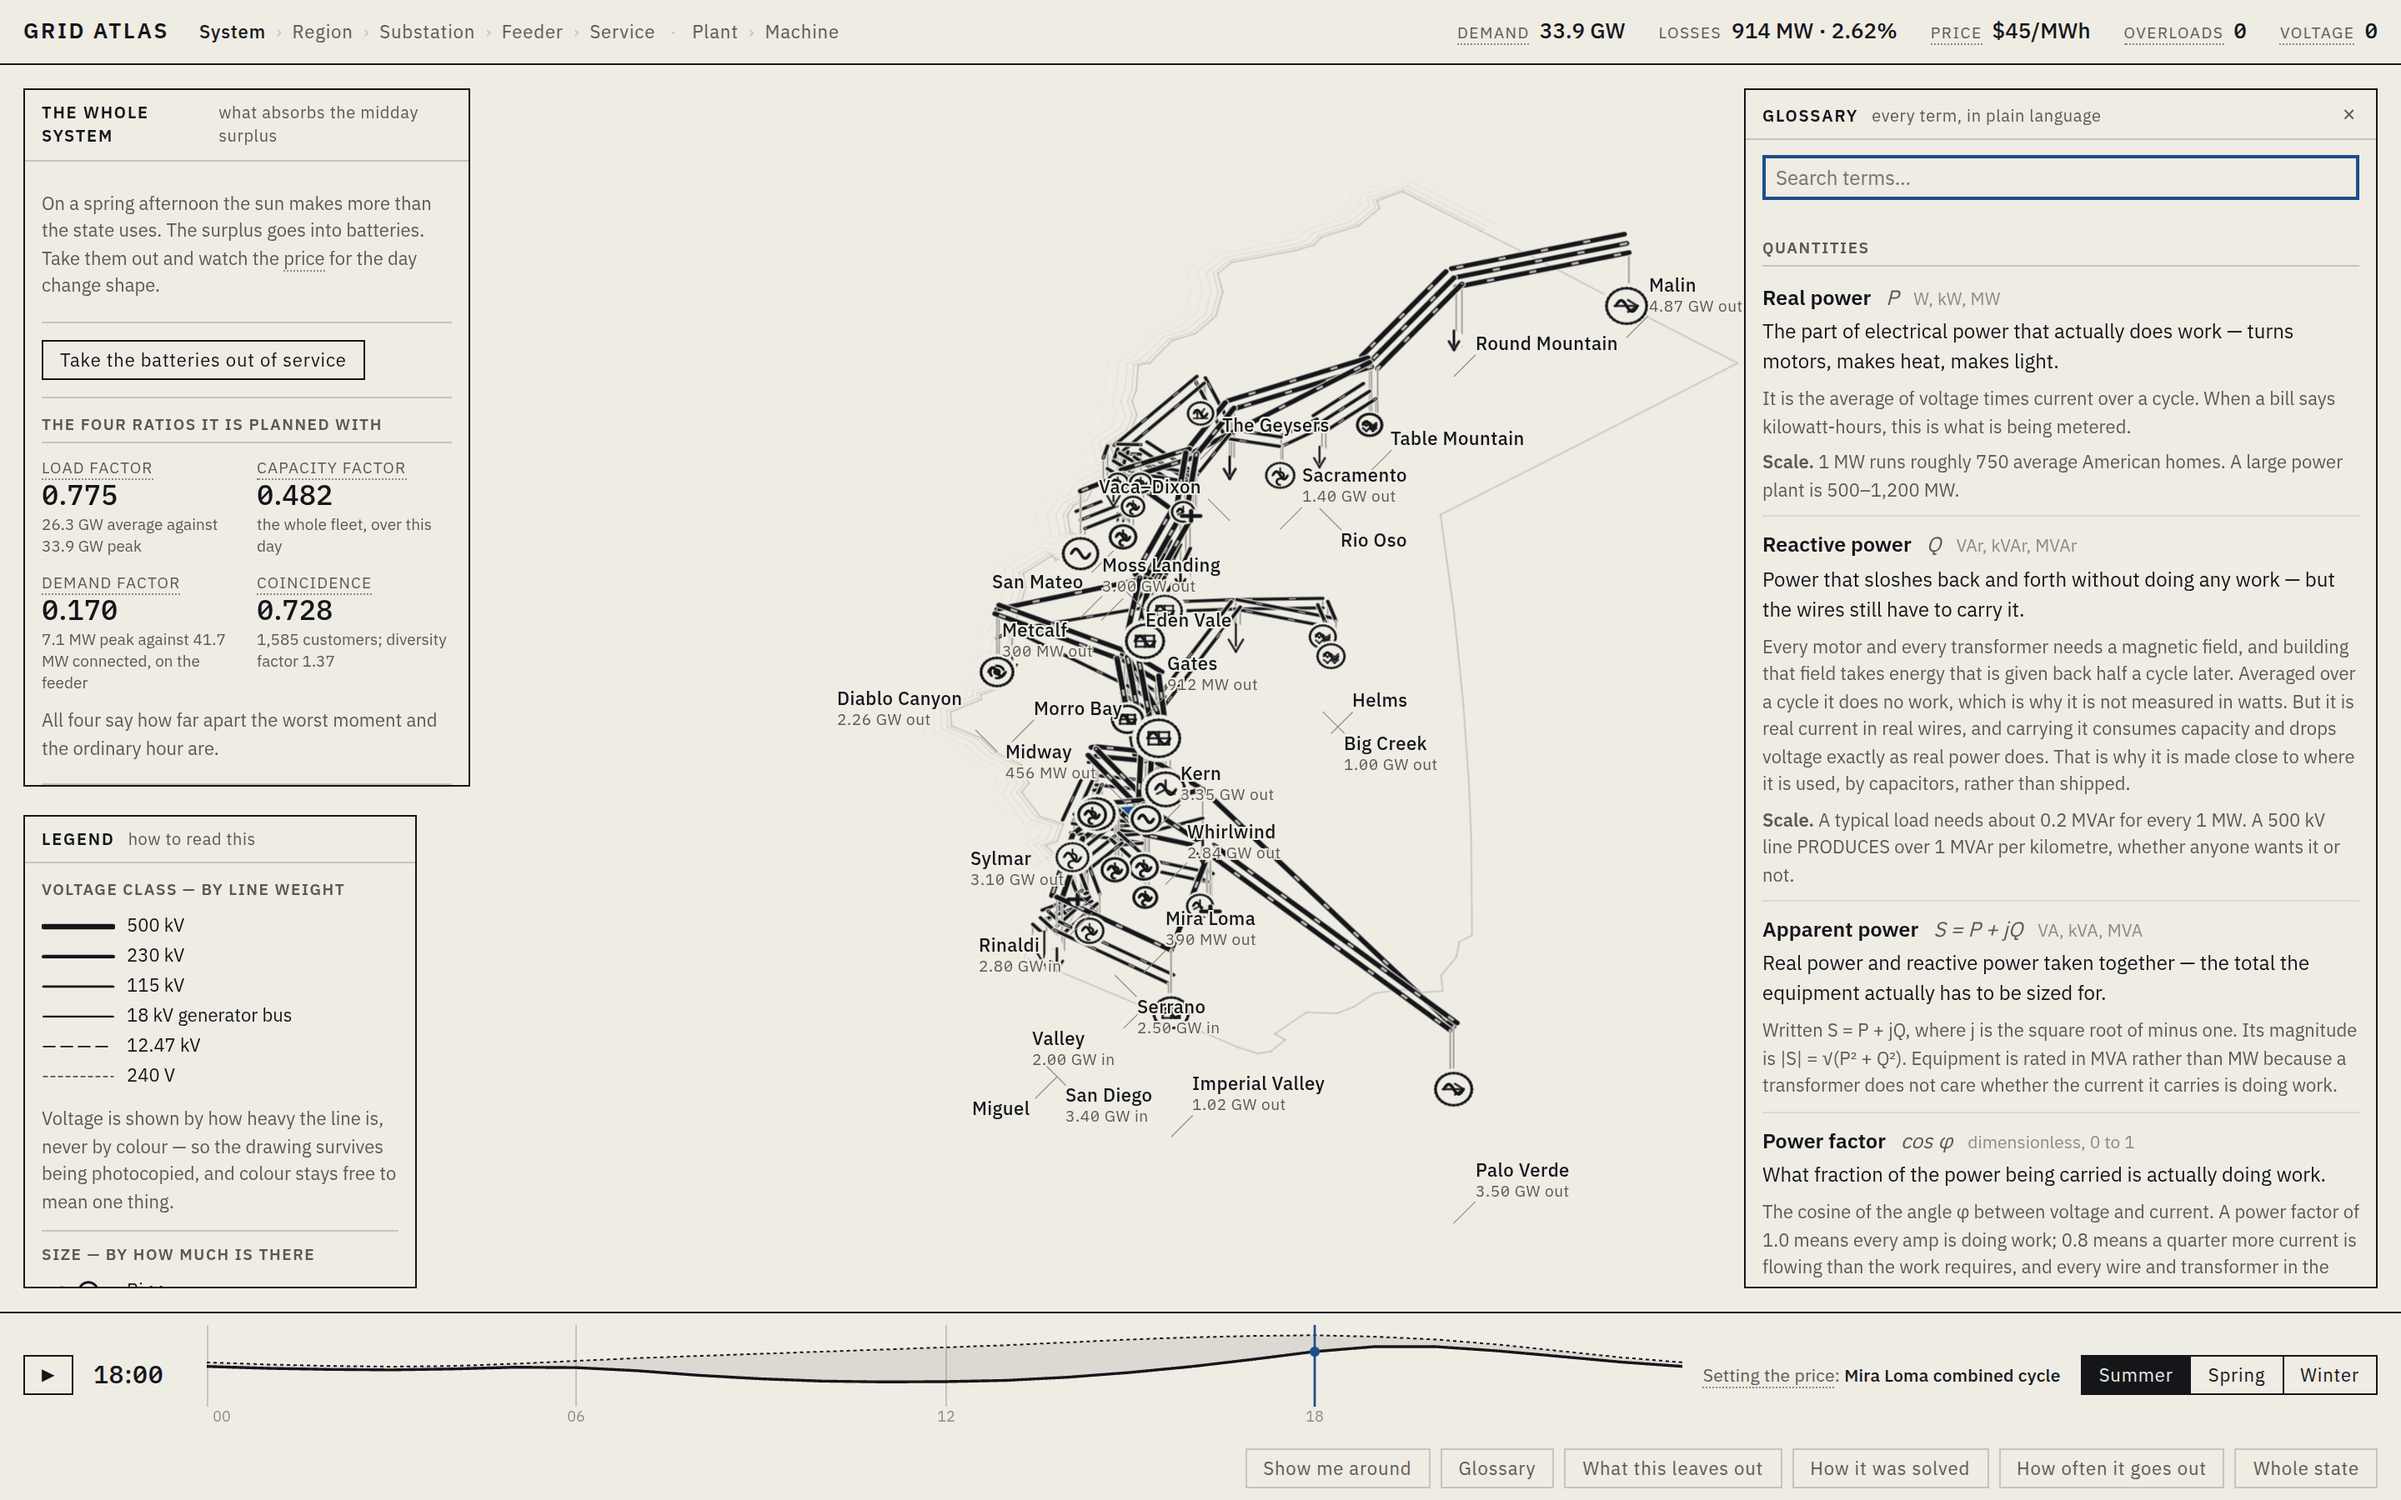
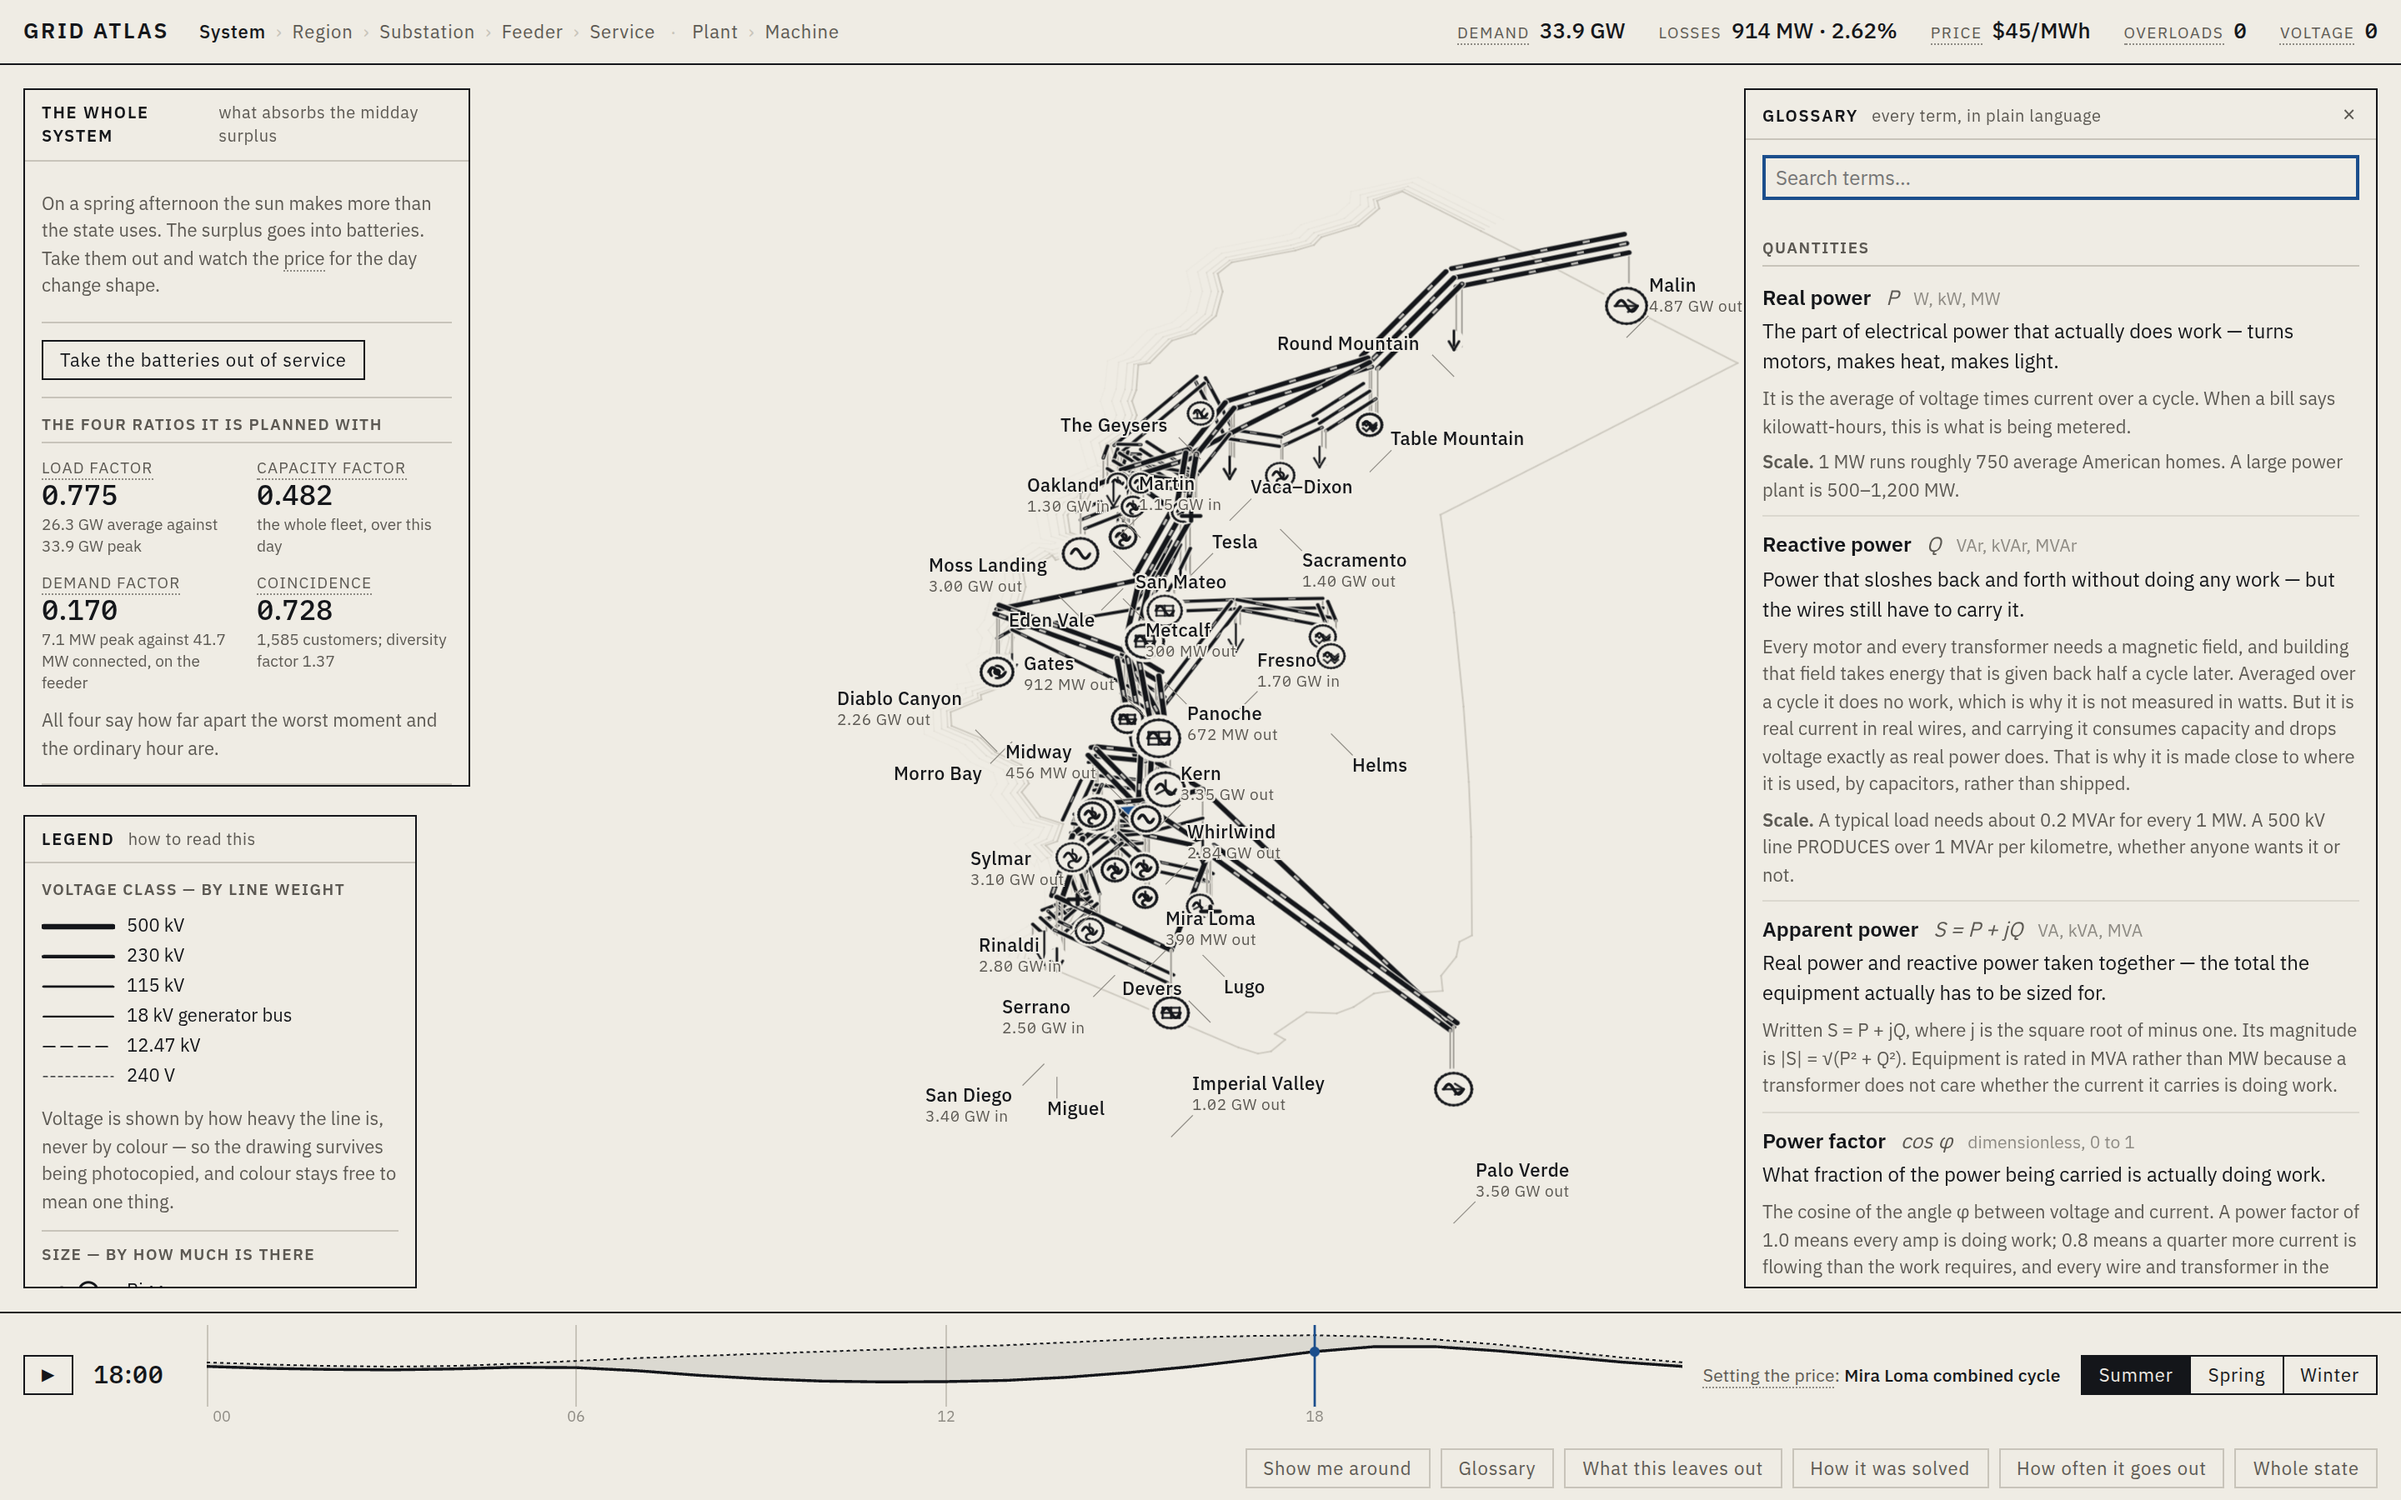
Labels know where the drawing is
What made the map look like a mess was never the number of labels. It
was that a caption would land in the middle of a five-circuit corridor
while a hand's width of empty paper sat beside it: the layout knew
where the other LABELS were and nothing whatever about the drawing it
was writing on.

The frame is now rasterised, once per rebuild, into cells a dozen
pixels across, and each label takes the free position covering the
least ink — with the conventional order as the tie-break, so nothing
moves when there is nothing to avoid. Ghost line work counts for less
than a conductor: at feeder scale the ground is everywhere, and
treating a street as an obstacle would leave no clear paper to prefer.

It costs between a fifth of a millisecond and one and a quarter, once
per camera change, measured at every level.

A label can also state which side of its subject it belongs on, which
is what turns the service view from scattered annotation into a
labelled diagram: the things named above the chain, the wires between
them below. It is a preference and not a restriction — a caption with
nowhere to go on its own side is still placed, because losing the
current and the volts dropped along a wire to keep a tidy rhythm would
be a bad trade.

Claude-Session: https://claude.ai/code/session_013L3ycJKAhRgYUj1wvadxW8

diff --git a/src/render/labels.ts b/src/render/labels.ts
@@ -59,6 +59,106 @@ export interface LabelSpec {
   opacity?: number;
 }
 
+/**
+ * A coarse map of where there is ink on the page.
+ *
+ * WHAT MADE THE MAP LOOK LIKE A MESS WAS NOT THE NUMBER OF LABELS. It was that
+ * a caption would land in the middle of a five-circuit corridor while a hand's
+ * width of empty paper sat beside it — the layout knew where the other LABELS
+ * were and nothing whatever about the drawing it was writing on.
+ *
+ * So the drawing is rasterised, once per rebuild, into cells a dozen pixels
+ * across, and a label picks the free position that covers the least ink. It is
+ * deliberately coarse: this is choosing between four or six candidates, not
+ * doing typography, and a fine grid would cost more than the decision is worth.
+ */
+export interface InkField {
+  cells: Uint16Array;
+  cols: number;
+  rows: number;
+  cell: number;
+}
+
+const INK_CELL_PX = 12;
+
+/**
+ * Rasterise the drawing's segments into that map.
+ *
+ * Endpoints are projected and the line between them walked in cell-sized
+ * steps. Long segments are capped: a five-hundred-kilometre circuit crossing
+ * the page contributes its share and does not get to spend a thousand steps
+ * doing it.
+ */
+/**
+ * How strongly a stroke counts as something worth not writing over.
+ *
+ * A conductor is worth avoiding; the ghost line work of a street or a
+ * coastline is scenery and a caption may sit on it, because at the feeder
+ * scale the ground is EVERYWHERE and treating it as an obstacle would leave
+ * the layout no clear paper at all to prefer.
+ */
+function weightOf(color: string): number {
+  if (color === INK.inkGhost) return 1;
+  if (color === INK.inkFaint || color === INK.inkMuted) return 2;
+  return 3;
+}
+
+export function inkField(
+  camera: IsoCamera,
+  segments: readonly { a: [number, number, number]; b: [number, number, number];
+    color?: string; opacity?: number }[],
+  widthPx: number,
+  heightPx: number
+): InkField {
+  const cell = INK_CELL_PX;
+  const cols = Math.max(1, Math.ceil(widthPx / cell));
+  const rows = Math.max(1, Math.ceil(heightPx / cell));
+  const cells = new Uint16Array(cols * rows);
+  const pa = new Vector2();
+  const pb = new Vector2();
+  const w = new Vector3();
+
+  const put = (x: number, y: number, weight: number): void => {
+    const cx = (x / cell) | 0;
+    const cy = (y / cell) | 0;
+    if (cx < 0 || cy < 0 || cx >= cols || cy >= rows) return;
+    cells[cy * cols + cx] += weight;
+  };
+
+  for (const seg of segments) {
+    // Marks in the colour of the paper are not ink: the halo behind a
+    // conductor and the disc behind a symbol are there to CLEAR the page.
+    if ((seg.opacity ?? 1) < 0.2) continue;
+    w.set(seg.a[0], seg.a[1], seg.a[2]);
+    camera.worldToScreen(w, pa);
+    w.set(seg.b[0], seg.b[1], seg.b[2]);
+    camera.worldToScreen(w, pb);
+    const dx = pb.x - pa.x;
+    const dy = pb.y - pa.y;
+    const weight = weightOf(seg.color ?? INK.ink);
+    const steps = Math.min(90, Math.max(1, Math.ceil(Math.hypot(dx, dy) / cell)));
+    for (let i = 0; i <= steps; i++) {
+      const t = i / steps;
+      put(pa.x + dx * t, pa.y + dy * t, weight);
+    }
+  }
+  return { cells, cols, rows, cell };
+}
+
+/** How much ink a rectangle would be written over. */
+function inkUnder(field: InkField, r: Rect): number {
+  const { cells, cols, rows, cell } = field;
+  const x0 = Math.max(0, (r.x / cell) | 0);
+  const y0 = Math.max(0, (r.y / cell) | 0);
+  const x1 = Math.min(cols - 1, ((r.x + r.w) / cell) | 0);
+  const y1 = Math.min(rows - 1, ((r.y + r.h) / cell) | 0);
+  let sum = 0;
+  for (let y = y0; y <= y1; y++) {
+    for (let x = x0; x <= x1; x++) sum += cells[y * cols + x];
+  }
+  return sum;
+}
+
 export interface PlacedLabel {
   spec: LabelSpec;
   x: number;
@@ -89,9 +189,18 @@ const PLACEMENTS: [number, number][] = [
  * the things are named on one side and the wires between them on the other.
  * The layout still drops what does not fit; it just stops choosing sides at
  * random.
+ *
+ * A PREFERENCE, NOT A RESTRICTION. Both lists hold all six candidates and
+ * differ only in order, so a caption with nowhere to go on its own side still
+ * gets placed rather than dropped — losing the current and the volts dropped
+ * along a wire to keep a tidy rhythm would be a bad trade.
  */
-const ABOVE: [number, number][] = [[1, -1], [-1, -1], [0, -1.6]];
-const BELOW: [number, number][] = [[1, 1], [-1, 1], [0, 1.6]];
+const ABOVE: [number, number][] = [
+  [1, -1], [-1, -1], [0, -1.6], [1, 1], [-1, 1], [0, 1.6],
+];
+const BELOW: [number, number][] = [
+  [1, 1], [-1, 1], [0, 1.6], [1, -1], [-1, -1], [0, -1.6],
+];
 
 export class LabelLayer {
   readonly element: HTMLDivElement;
@@ -117,7 +226,7 @@ export class LabelLayer {
   }
 
   /** Project, rank, place what fits, hide the rest. */
-  layout(camera: IsoCamera, specs: readonly LabelSpec[]): void {
+  layout(camera: IsoCamera, specs: readonly LabelSpec[], ink?: InkField): void {
     const placed: PlacedLabel[] = [];
     const seen = new Set<string>();
 
@@ -159,14 +268,22 @@ export class LabelLayer {
       let put: PlacedLabel | null = null;
       const tries = spec.side === 'above' ? ABOVE
         : spec.side === 'below' ? BELOW : PLACEMENTS;
+      // The FIRST free position is not the best one. Candidates are ordered by
+      // where a caption conventionally sits, and that order is the tie-break;
+      // between them, the one written over the least drawing wins.
+      let bestInk = Infinity;
       for (const [sx, sy] of tries) {
         const off = spec.offsetPx ?? [LAYOUT.labelOffsetPx, LAYOUT.labelOffsetPx];
         const x = px.x + (sx >= 0 ? off[0] : -off[0] - size.w) + (sx === 0 ? -size.w / 2 : 0);
         const y = px.y + (sy >= 0 ? off[1] : -off[1] - size.h);
         const rect = { x, y, w: size.w, h: size.h };
         if (placed.some((p) => overlaps(rect, p, LAYOUT.labelCollisionPaddingPx))) continue;
-        put = { spec, x, y, w: size.w, h: size.h, anchorX: px.x, anchorY: px.y };
-        break;
+        const over = ink ? inkUnder(ink, rect) : 0;
+        if (over < bestInk) {
+          bestInk = over;
+          put = { spec, x, y, w: size.w, h: size.h, anchorX: px.x, anchorY: px.y };
+        }
+        if (over === 0) break;
       }
       // A value is only spoken for once it has actually been PLACED: a label
       // that collided and was dropped must not take its number down with it.

diff --git a/src/app/viewport.ts b/src/app/viewport.ts
@@ -10,7 +10,7 @@
 import { Scene, WebGLRenderer, Color, Vector2, Vector3 } from 'three';
 import { IsoCamera } from '../render/iso.js';
 import { LineBatch, LineSegment } from '../render/line-batch.js';
-import { LabelLayer, LabelSpec } from '../render/labels.js';
+import { LabelLayer, LabelSpec, inkField } from '../render/labels.js';
 import { INK, ZOOM, levelForScale, LevelId } from '../render/style.js';
 import { PickTarget } from '../render/scene-system.js';
 
@@ -124,7 +124,13 @@ export class Viewport {
     if (this.needsBuild) {
       const content = this.events.build();
       this.batch.update(content.segments);
-      this.labels.layout(this.camera, content.labels);
+      // The label layout is told where the drawing is, so a caption prefers
+      // clear paper to the middle of a corridor. Built here because this is the
+      // one place that has both the segments and the camera they were built
+      // for, and it costs one pass over the frame that was just assembled.
+      this.labels.layout(this.camera, content.labels, inkField(
+        this.camera, content.segments,
+        this.camera.viewport.width, this.camera.viewport.height));
       this.picks = content.picks;
       this.needsBuild = false;
       this.needsDraw = true;
